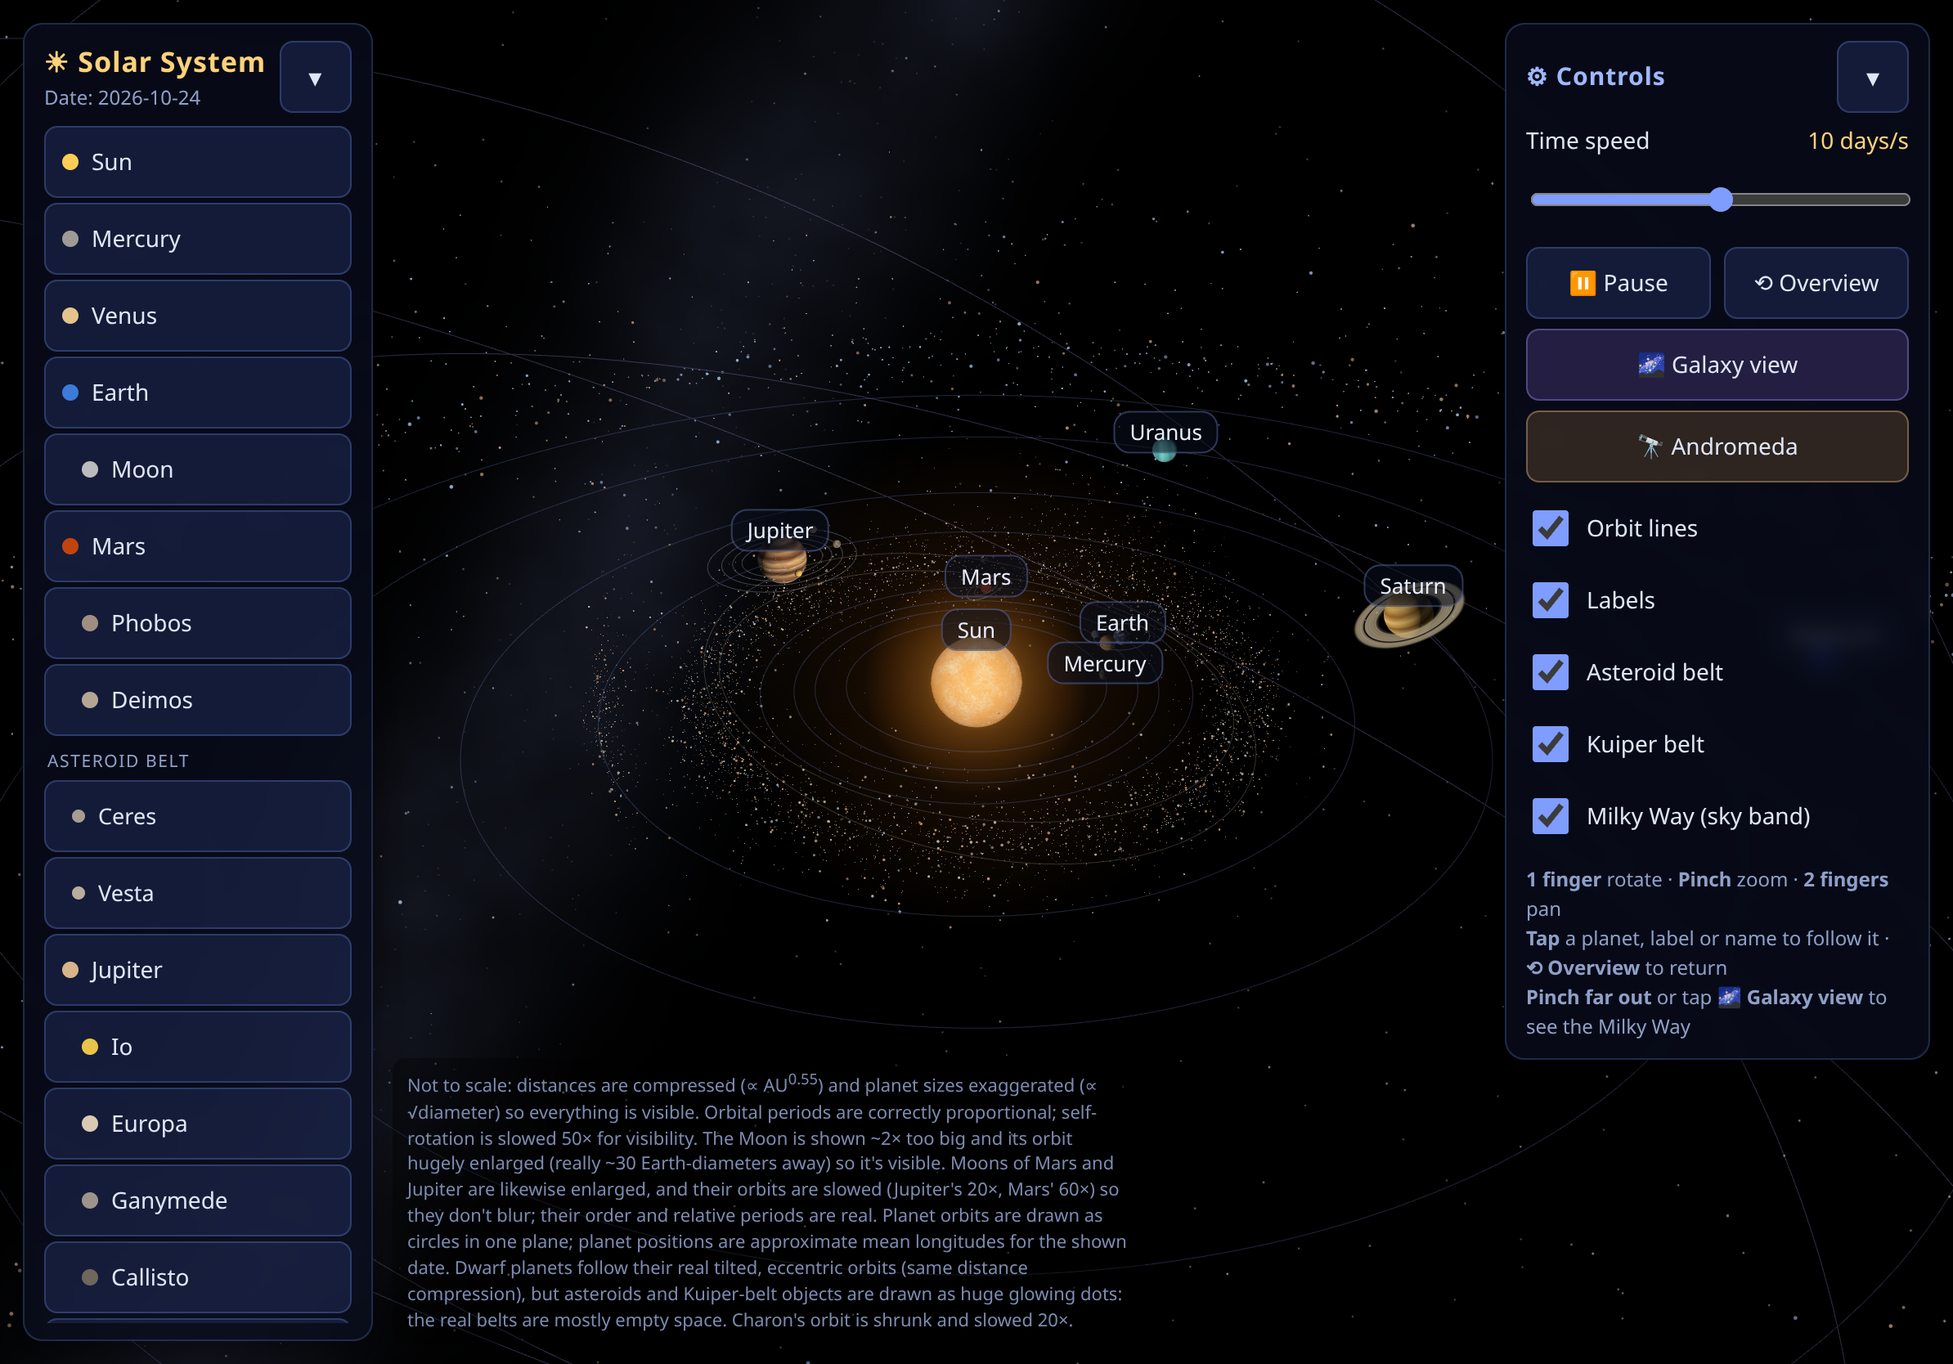
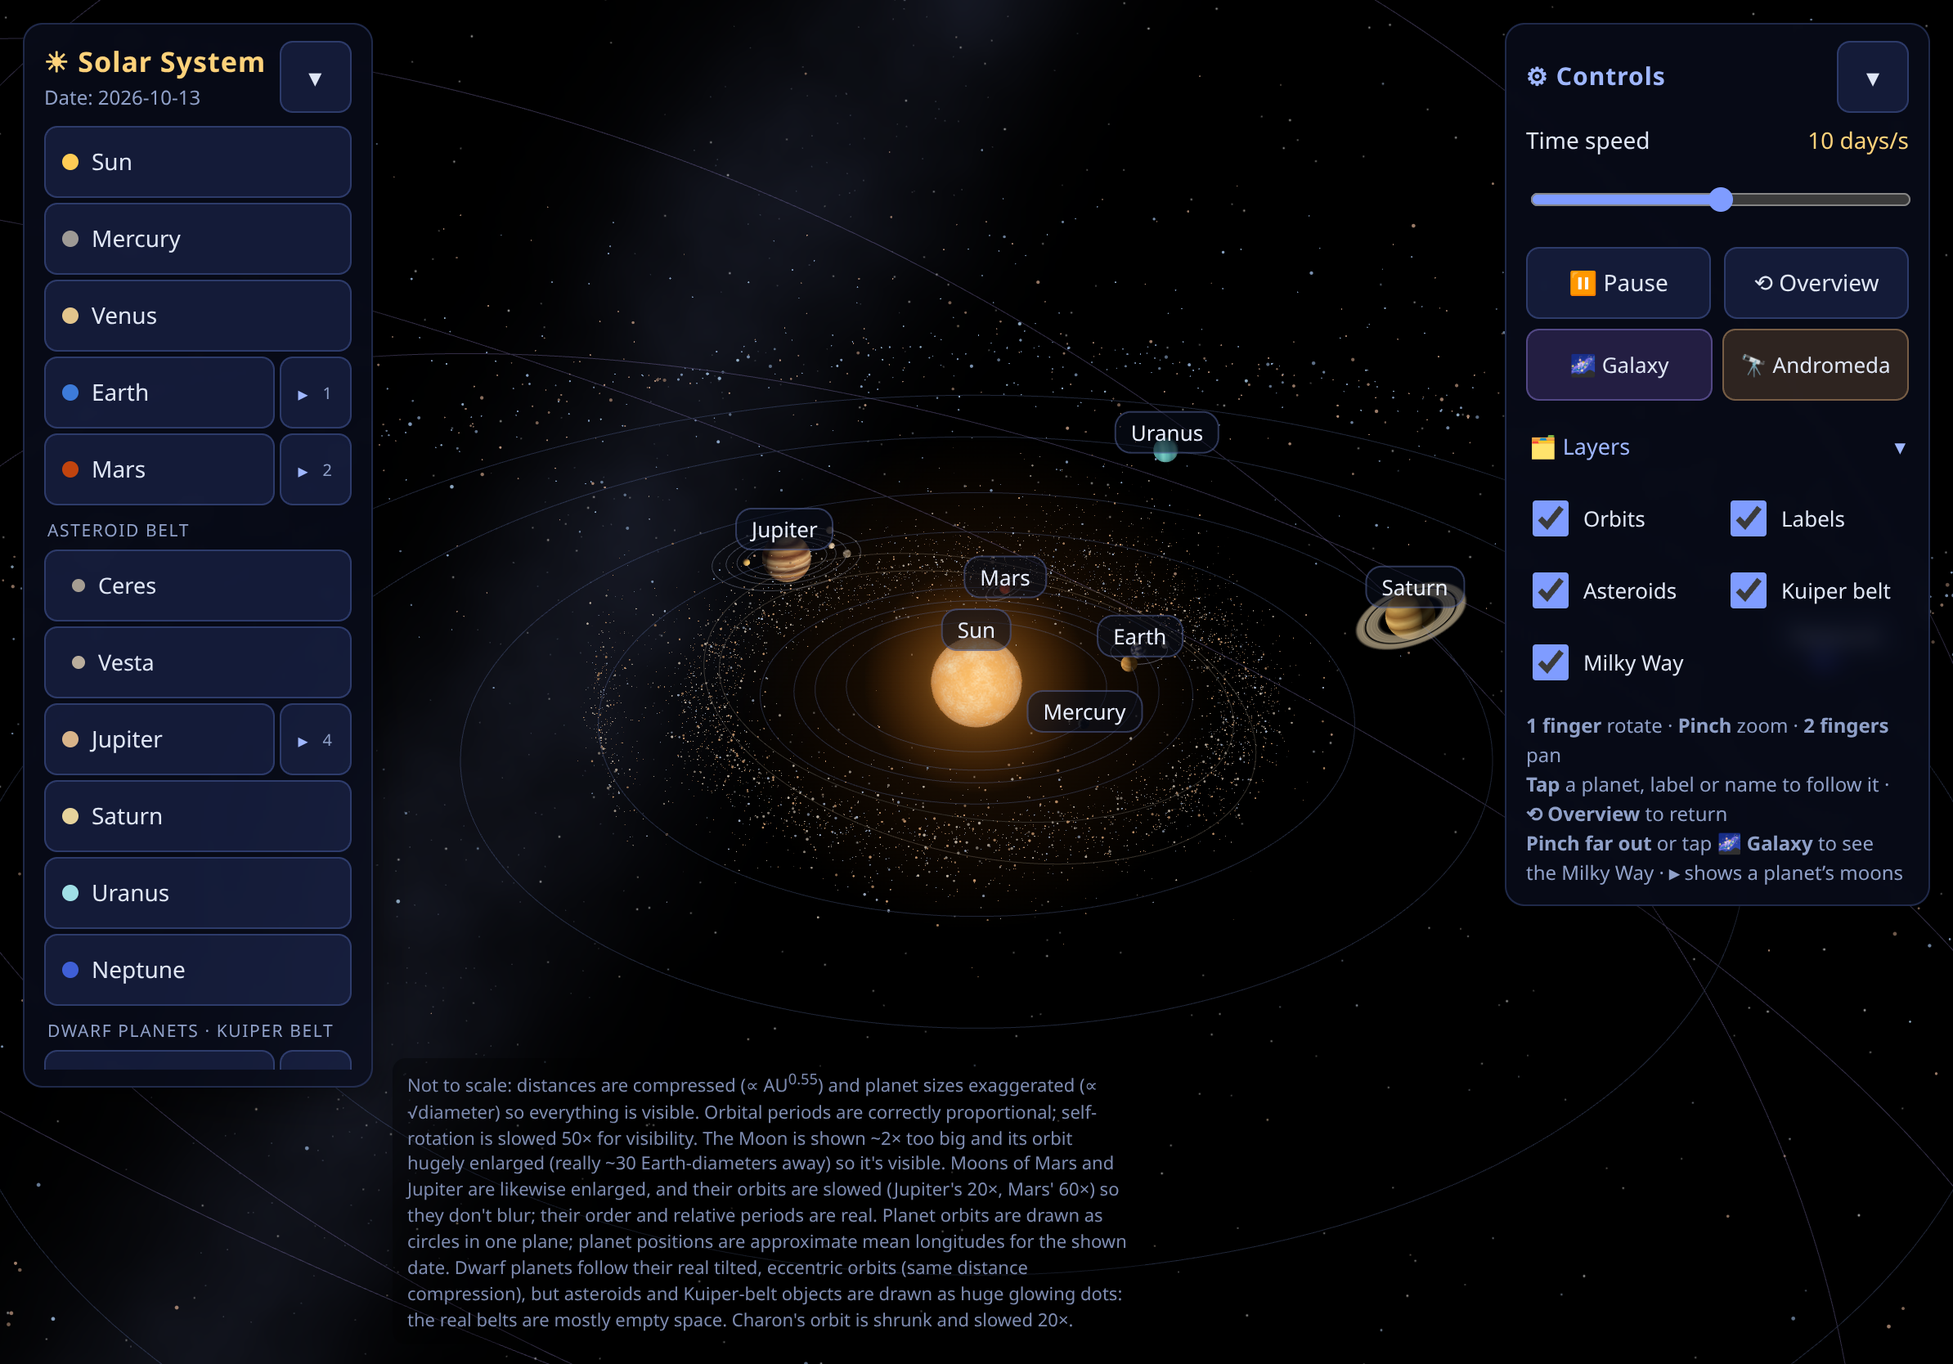
Compact iPad UI: auto-collapsed panels in portrait, foldable moon list, view-button row, Layers grid; easier Moon taps

diff --git a/main.js b/main.js
@@ -619,10 +619,23 @@ for (const b of bodies) {
   const btn = document.createElement('button');
   btn.innerHTML = `<span class="dot" style="background:${b.info.color}"></span>${b.name}`;
   if (b.isSmall) btn.classList.add('small-body');
-  if (b.isMoon) btn.style.paddingLeft = b.isSmall ? '30px' : '22px';
-  btn.addEventListener('click', () => (mode === 'galaxy' ? exitGalaxy(() => focusOn(b)) : mode === 'solar' && focusOn(b)));
+  if (b.isMoon) { btn.style.paddingLeft = b.isSmall ? '30px' : '22px'; btn.classList.add('moon-item', 'folded'); }
+  btn.addEventListener('click', () => {
+    if (mode === 'galaxy') exitGalaxy(() => focusOn(b)); else if (mode === 'solar') focusOn(b);
+    if (isCompact()) setPanelCollapsed('nav-panel', true);       // small screens: get the list out of the way
+  });
   b.button = btn;
-  list.appendChild(btn);
+  if (b.moons && b.moons.length) {
+    // planet row with an expand arrow that shows/hides its moons
+    const row = document.createElement('div'); row.className = 'list-row';
+    const ex = document.createElement('button');
+    ex.className = 'expand-btn'; ex.setAttribute('aria-label', `Show ${b.name}'s moons`); ex.setAttribute('aria-expanded', 'false');
+    ex.innerHTML = `▸<span class="n">${b.moons.length}</span>`;
+    ex.addEventListener('click', () => setMoonsExpanded(b, ex.getAttribute('aria-expanded') !== 'true'));
+    b.expandBtn = ex;
+    row.append(btn, ex);
+    list.appendChild(row);
+  } else list.appendChild(btn);
   b.labelEl.addEventListener('click', (e) => {
     e.stopPropagation();
     // A label can sit on top of another planet's disc (e.g. the Sun's label over Mars).
@@ -634,6 +647,12 @@ for (const b of bodies) {
   b.labelEl.addEventListener('pointerleave', (e) => { if (e.pointerType === 'mouse' && hovered === b) hovered = null; });
 }
 
+function setMoonsExpanded(b, open) {
+  if (!b.expandBtn) return;
+  b.expandBtn.setAttribute('aria-expanded', String(open));
+  b.expandBtn.firstChild.textContent = open ? '▾' : '▸';
+  for (const m of b.moons) m.button.classList.toggle('folded', !open);
+}
 function fmtNum(n) { return n.toLocaleString('en-US'); }
 function fmtPeriod(days) {
   return days < 1000 ? `${fmtNum(+days.toFixed(2))} days` : `${(days / 365.25).toFixed(2)} years (${fmtNum(Math.round(days))} days)`;
@@ -732,7 +751,13 @@ function pick(clientX, clientY, slopPx) {
     }
     if (centerDist === Infinity) continue;
     if (centerDist > screenR + slopPx && b !== rayBody) continue;
-    const score = centerDist / (screenR + slopPx) * (b === rayBody ? 0.8 : 1);
+    // 1) the tap is well inside a body's visible disc → that body (front-most wins if discs overlap)
+    // 2) otherwise → the body whose center is nearest the finger (so a tiny moon right next to a bigger
+    //    planet's edge is still easy to hit); moons of the focused planet get a small head start
+    const inside = centerDist <= screenR * 0.8;
+    const camDist = b.group.getWorldPosition(_hist).distanceTo(camera.position);
+    const boost = focused && (b.parent === focused || b.parent === focused.parent) ? 0.75 : 1;
+    const score = inside ? -1e6 + camDist : centerDist * boost;
     if (score < bestScore) { bestScore = score; best = b; }
   }
   return best;
@@ -816,13 +841,28 @@ function placeNotes() {
   const noteTop = note.height ? note.top : window.innerHeight - 140;
   if (nav.bottom > noteTop - 6 && nav.right + 12 + 300 < window.innerWidth) document.body.style.setProperty('--note-left', `${Math.round(nav.right + 12)}px`);
 }
-// Collapsible panels (start collapsed on small screens so the view isn't covered)
-for (const btn of document.querySelectorAll('.collapse-btn')) {
-  const panel = document.getElementById(btn.dataset.target);
-  const set = (collapsed) => { panel.classList.toggle('collapsed', collapsed); btn.setAttribute('aria-expanded', String(!collapsed)); placeNotes(); };
-  btn.addEventListener('click', () => set(!panel.classList.contains('collapsed')));
-  if (Math.min(window.innerWidth, window.innerHeight) < 600) set(true);
+// Collapsible panels. Compact screens (portrait tablets, phones, short landscape) start with both panels collapsed
+// and the Layers group closed, so planets and moons aren't hidden behind the UI.
+function isCompact() { return window.innerHeight > window.innerWidth || Math.min(window.innerWidth, window.innerHeight) < 600; }
+function setPanelCollapsed(id, collapsed) {
+  const panel = $(id), btn = panel.querySelector('.collapse-btn');
+  panel.classList.toggle('collapsed', collapsed); btn.setAttribute('aria-expanded', String(!collapsed)); placeNotes();
 }
+for (const btn of document.querySelectorAll('.collapse-btn')) {
+  const id = btn.dataset.target;
+  btn.addEventListener('click', () => setPanelCollapsed(id, !$(id).classList.contains('collapsed')));
+}
+let wasCompact = null;
+function applyCompact() {
+  const c = isCompact();
+  if (c === wasCompact) return;
+  wasCompact = c;
+  document.body.classList.toggle('compact', c);
+  if (c) { setPanelCollapsed('nav-panel', true); setPanelCollapsed('controls', true); $('layers').open = false; }
+  else $('layers').open = true;
+}
+applyCompact();
+window.addEventListener('resize', applyCompact);
 
 // ---------------------------------------------------------------------------
 // Label de-cluttering: hide labels whose screen rectangles overlap a higher-priority label
@@ -885,6 +925,7 @@ function focusOffset(b, out) {
 
 function focusOn(b) {
   focused = b;
+  setMoonsExpanded(b.moons && b.moons.length ? b : b.parent || b, true);
   transition = { fromCam: camera.position.clone(), fromTarget: controls.target.clone(), t: 0, offset: focusOffset(b, new THREE.Vector3()) };
   controls.minDistance = Math.max(b.radius * 1.5, 0.3);
   bodies.forEach((o) => { o.labelEl.classList.toggle('active', o === b); o.button.classList.toggle('active', o === b); });
@@ -917,8 +958,8 @@ function beginTransit() {
 }
 function updateGalaxyButton() {
   const g = activeScene === galaxy.scene;
-  $('galaxy-btn').textContent = g ? '☀ Solar System' : '🌌 Galaxy view';
-  $('andromeda-btn').textContent = g && galaxyFocus === 'm31' ? '🌌 Back to Milky Way' : '🔭 Andromeda';
+  $('galaxy-btn').textContent = g ? '☀ Solar System' : '🌌 Galaxy';
+  $('andromeda-btn').textContent = g && galaxyFocus === 'm31' ? '🌌 Milky Way' : '🔭 Andromeda';
   document.body.classList.toggle('galaxy-mode', g);
 }
 

diff --git a/style.css b/style.css
@@ -62,6 +62,13 @@ h2 { font-size: 15px; margin: 0; color: #9fb7ff; letter-spacing: 0.5px; }
 #body-list .list-header { font-size: 10.5px; text-transform: uppercase; letter-spacing: 0.8px; color: #8fa0c8;
   margin: 6px 2px 1px; flex: none; }
 #body-list button.small-body { padding-left: 16px; font-size: 13.5px; }
+/* planet row: main button + expand arrow for its moons */
+#body-list .list-row { display: flex; gap: 3px; flex: none; }
+#body-list .list-row > button:first-child { flex: 1; min-width: 0; }
+#body-list .expand-btn { width: var(--btn-h); min-width: var(--btn-h); padding: 0; justify-content: center; font-size: 12px; color: #9fb7ff; }
+#body-list .expand-btn .n { font-size: 10px; margin-left: 1px; color: #8fa0c8; }
+#body-list button.moon-item.folded { display: none; }
+#nav-panel { max-height: min(calc(100% - 2 * var(--gap) - var(--sat) - var(--sab)), 78vh); }
 #body-list button.small-body .dot { width: 8px; height: 8px; }
 
 button {
@@ -83,7 +90,21 @@ button {
 button:active { background: rgba(90, 120, 230, 0.5); }
 button.active { background: rgba(255, 200, 90, 0.25); border-color: rgba(255, 210, 120, 0.7); }
 
-#controls { top: calc(var(--gap) + var(--sat)); right: calc(var(--gap) + var(--sar)); width: 260px; }
+#controls { top: calc(var(--gap) + var(--sat)); right: calc(var(--gap) + var(--sar)); width: 260px;
+  max-height: calc(100% - 2 * var(--gap) - var(--sat) - var(--sab)); overflow-y: auto; }
+/* views: one compact row; extra buttons simply add columns */
+.view-row { display: grid; grid-auto-flow: column; grid-auto-columns: 1fr; gap: 6px; margin: 6px 0; }
+.view-row button { padding: 4px 6px; font-size: 13px; white-space: nowrap; overflow: hidden; text-overflow: ellipsis; }
+/* layers: compact 2-column grid inside a disclosure */
+.layers { margin: 6px 0 0; }
+.layers summary { cursor: pointer; font-size: 13.5px; color: #9fb7ff; min-height: var(--btn-h); display: flex; align-items: center;
+  list-style: none; padding: 0 2px; }
+.layers summary::-webkit-details-marker { display: none; }
+.layers summary::after { content: "▾"; margin-left: auto; transition: transform 0.2s; }
+.layers:not([open]) summary::after { transform: rotate(-90deg); }
+.layer-grid { display: grid; grid-template-columns: 1fr 1fr; gap: 0 8px; }
+.layer-grid .toggle { display: flex; align-items: center; gap: 6px; font-size: 13px; min-height: 30px; white-space: nowrap; }
+body.touch .layer-grid .toggle { min-height: 44px; }
 .row { display: flex; align-items: center; gap: 8px; margin: 6px 0; font-size: 14px; }
 body.touch .row.toggle { min-height: 44px; margin: 0; }
 .slider-row { justify-content: space-between; }
@@ -145,6 +166,8 @@ body.touch .label::before { content: ""; position: absolute; inset: -10px -6px; 
 .galaxy-label-wrap { pointer-events: none; }
 .galaxy-label { transform: translateY(-30px); display: inline-block; }
 .galaxy-label.sun-here { color: #ffd27a; border-color: rgba(255, 210, 120, 0.7); background: rgba(40, 28, 5, 0.6); }
+/* keep the 'You are here' marker above star-cluster labels (CSS2DRenderer sets z-index inline) */
+.galaxy-label-wrap:has(> .sun-here) { z-index: 2147483000 !important; }
 body.galaxy-mode .solar-label, body:not(.galaxy-mode) .galaxy-label-wrap { display: none !important; }
 #galaxy-note {
   display: none;
@@ -177,7 +200,7 @@ body.galaxy-mode #galaxy-btn { background: rgba(255, 200, 90, 0.2); border-color
 
 /* Narrow screens (portrait tablets) — keep panels compact */
 @media (max-width: 900px) {
-  #controls { width: 240px; }
+  #controls { width: 260px; }
   body.info-open #scale-note, body.info-open #galaxy-note { display: none !important; }
 }
 /* Phones */

diff --git a/index.html b/index.html
@@ -56,17 +56,21 @@
         <button id="pause-btn" title="Space">⏸ Pause</button>
         <button id="overview-btn" title="Esc">⟲ Overview</button>
       </div>
-      <div class="row buttons">
-        <button id="galaxy-btn" title="G">🌌 Galaxy view</button>
+      <!-- Views: one compact row (room for more, e.g. a future Sombrero button) -->
+      <div class="view-row">
+        <button id="galaxy-btn" title="Galaxy view (G)">🌌 Galaxy</button>
+        <button id="andromeda-btn" title="Andromeda (A)">🔭 Andromeda</button>
       </div>
-      <div class="row buttons">
-        <button id="andromeda-btn" title="A">🔭 Andromeda</button>
-      </div>
-      <label class="row toggle"><input type="checkbox" id="toggle-orbits" checked /> Orbit lines</label>
-      <label class="row toggle"><input type="checkbox" id="toggle-labels" checked /> Labels</label>
-      <label class="row toggle"><input type="checkbox" id="toggle-asteroids" checked /> Asteroid belt</label>
-      <label class="row toggle"><input type="checkbox" id="toggle-kuiper" checked /> Kuiper belt</label>
-      <label class="row toggle"><input type="checkbox" id="toggle-milkyway" checked /> Milky Way (sky band)</label>
+      <details id="layers" class="layers" open>
+        <summary>🗂 Layers</summary>
+        <div class="layer-grid">
+          <label class="toggle"><input type="checkbox" id="toggle-orbits" checked /> Orbits</label>
+          <label class="toggle"><input type="checkbox" id="toggle-labels" checked /> Labels</label>
+          <label class="toggle"><input type="checkbox" id="toggle-asteroids" checked /> Asteroids</label>
+          <label class="toggle"><input type="checkbox" id="toggle-kuiper" checked /> Kuiper belt</label>
+          <label class="toggle"><input type="checkbox" id="toggle-milkyway" checked /> Milky Way</label>
+        </div>
+      </details>
       <div class="help help-desktop">
         <b>Drag</b> rotate · <b>Scroll</b> zoom · <b>Right-drag</b> pan<br />
         <b>Click</b> a planet to follow it · <b>Esc</b> overview · <b>Space</b> pause<br />
@@ -75,7 +79,7 @@
       <div class="help help-touch">
         <b>1 finger</b> rotate · <b>Pinch</b> zoom · <b>2 fingers</b> pan<br />
         <b>Tap</b> a planet, label or name to follow it · <b>⟲ Overview</b> to return<br />
-        <b>Pinch far out</b> or tap <b>🌌 Galaxy view</b> to see the Milky Way
+        <b>Pinch far out</b> or tap <b>🌌 Galaxy</b> to see the Milky Way · <b>▸</b> shows a planet’s moons
       </div>
     </div>
   </div>

diff --git a/README.md b/README.md
@@ -8,11 +8,12 @@ An interactive 3D model of the solar system that runs in your browser. It's buil
 - The Sun (glowing, and it's the light source) plus all 8 planets and 5 dwarf planets in the right order, with correctly proportional orbital periods
 - Real axial tilts and day lengths (spin is slowed 50× so you can see it), Saturn's and Uranus's rings, Earth's clouds, the Moon clearly orbiting Earth with its own orbit ring, and Mars' (Phobos, Deimos) and Jupiter's (Io, Europa, Ganymede, Callisto) moons with detailed procedural surfaces
 - Click or tap any planet to fly to it and follow it, with an info panel: diameter, distance from the Sun (AU), orbital period, day length and a fun fact
-- Time speed slider (paused up to about 2.7 years per second), checkboxes for orbit lines and labels, and collapsible panels
+- Time speed slider (paused up to about 2.7 years per second), a compact Layers group (orbits, labels, belts, Milky Way), and collapsible panels; on portrait/small screens both panels start collapsed and the planet list folds away after you pick something
+- Planet list with moons folded under their planet (tap ▸ to show them; focusing a planet unfolds its moons)
 - **Asteroid belt & Kuiper belt**: thousands of GPU-animated asteroids (with the Kirkwood gaps and Jupiter's Trojans) and an icy Kuiper belt beyond Neptune, each with its own on/off checkbox
 - **Dwarf planets**: Ceres and Vesta in the asteroid belt; Pluto with Charon (a tidally locked double world) on its real eccentric, tilted orbit that crosses inside Neptune's; plus Eris, Haumea (egg-shaped, with a ring) and Makemake, all selectable with info panels
 - **Milky Way**: a glowing galactic band across the sky, tilted realistically to the planets' orbital plane (toggle it in Controls)
-- **Galaxy view**: zoom far out (or press 🌌 Galaxy view) to see the whole Milky Way as a 4-armed barred spiral, with a pulsing "You are here: Sun" marker 26,000 light-years from the center
+- **Galaxy view**: zoom far out (or press 🌌 Galaxy) to see the whole Milky Way as a 4-armed barred spiral, with a pulsing "You are here: Sun" marker 26,000 light-years from the center
 - **Solar flares**: zoom into the Sun to see its boiling granulated surface, sunspots, glowing prominence loops, and random solar flares and CMEs erupting off the edge
 - **Andromeda & the Local Group**: zoom even farther out (or press 🔭 Andromeda / `A`) to see the Andromeda Galaxy (M31) with its companions M32 and M110, shown at its true distance of ~2.5 million light-years
 - Distances and sizes are scaled so everything is visible (in the galaxy view, *wildly* so); see the note in the bottom-left corner of the page
@@ -26,7 +27,7 @@ An interactive 3D model of the solar system that runs in your browser. It's buil
 | Follow a planet | Click planet, label or list item | Tap planet, label or list item |
 | Back to overview | `Esc` or ⟲ Overview | ⟲ Overview or ✕ |
 | Pause / play | `Space` or button | Pause button |
-| Galaxy view | `G`, 🌌 Galaxy view, or zoom far out | 🌌 Galaxy view, or pinch far out |
+| Galaxy view | `G`, 🌌 Galaxy, or zoom far out | 🌌 Galaxy, or pinch far out |
 | Back from galaxy | `Esc`, ☀ Solar System, or zoom all the way in | ☀ Solar System, or pinch all the way in |
 | Galaxy info | Click the galaxy or "You are here" | Tap the galaxy or "You are here" |
 | Andromeda | `A`, 🔭 Andromeda, zoom far out from the galaxy, or click it | 🔭 Andromeda, pinch far out, or tap it |

diff --git a/CHANGELOG.md b/CHANGELOG.md
@@ -1,5 +1,28 @@
 # Changelog
 
+## 2026-10-09: Compact UI for iPad portrait & easier Moon taps
+
+### Changed
+- **Panels no longer hide planets on iPad portrait.**
+  - On portrait and small screens (portrait, or shorter side under 600 px), the planet list and Controls start collapsed and Layers starts closed.
+  - The list folds away after you pick a body, and rotating to landscape restores the full panels.
+- **Planet list:**
+  - Moons are folded under their planet, with a ▸ arrow showing how many there are.
+  - Focusing a planet or one of its moons unfolds that group automatically.
+  - The list is a scrollable panel capped at 78% of the screen height.
+- **Controls:**
+  - Galaxy and Andromeda sit in one compact row of icon + short-label buttons (it has room for more, e.g. a future Sombrero button). In the galaxy view they read ☀ Solar System / 🌌 Milky Way.
+  - The checkboxes are grouped in a **🗂 Layers** disclosure as a 2-column grid: Orbits, Labels, Asteroids, Kuiper belt, Milky Way.
+  - The Controls panel scrolls if it ever gets taller than the screen.
+- Touch targets stay at least 44 px, including the moon-group arrows, the Layers header and each layer toggle.
+
+### Fixed
+- **The Moon is easy to tap next to Venus in the far overview.** Picking now works in two steps:
+  - If the tap is well inside a body's visible disc, that body wins (the front-most one if discs overlap).
+  - Otherwise the body whose center is nearest the finger wins, so a tiny moon beside a bigger planet's edge is no longer stolen by the planet.
+  - Moons of the focused planet get a small priority boost.
+- The galaxy view's "☀ You are here" marker now stays on top of nearby star-cluster labels (e.g. M4), so it is always tappable.
+
 ## 2026-10-09: Asteroid belt, Kuiper belt and dwarf planets update
 
 ### Added
